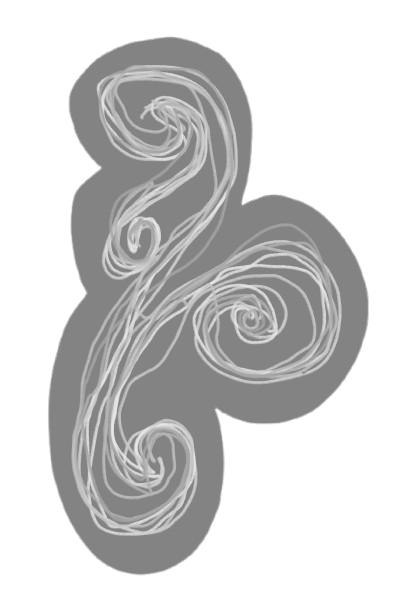
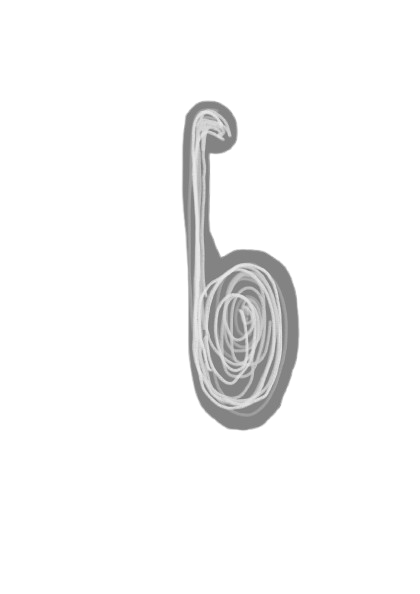
yay its straight , time to make it infinite

diff --git a/script.js b/script.js
@@ -12,8 +12,12 @@ for(let i=1;i<=3;i++){
 function make(){
     ctext.clearRect(0,0,sky.width,sky.height);
     if(img.every(im=>im.complete && im.naturalWidth>0)){
-        for(let i=0;i<8;i++){
-            ctext.drawImage(img[i],x+i*200,100,200,100);
+        for(let i=0;i<3;i++){
+            ctext.save();
+            ctext.translate(x+i*200+100,150);
+            ctext.rotate(-Math.PI/2);
+            ctext.drawImage(img[i],-50,-100,100,200);
+            ctext.restore();
         }
     }
     x-=1;
